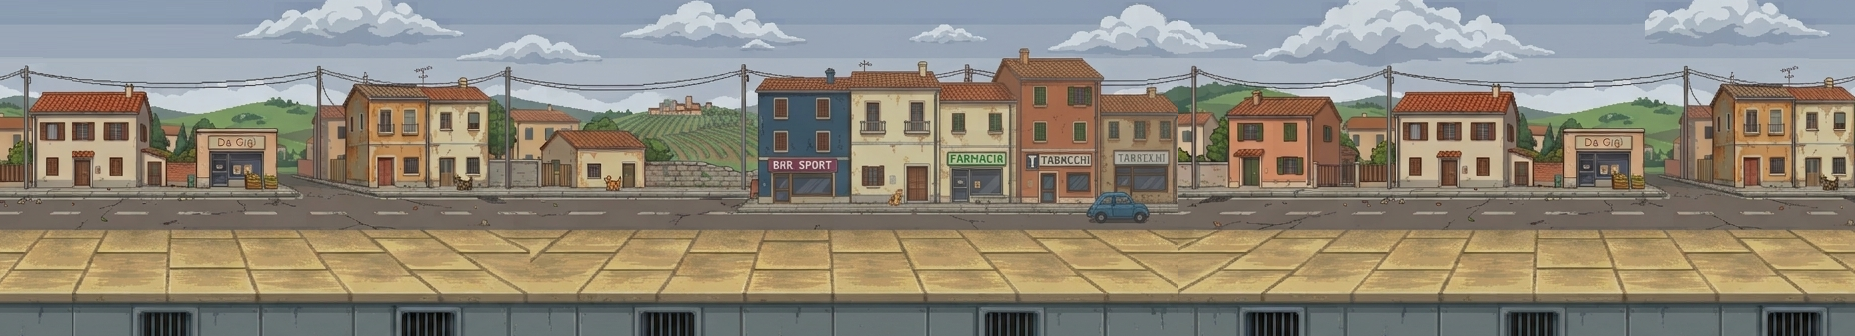
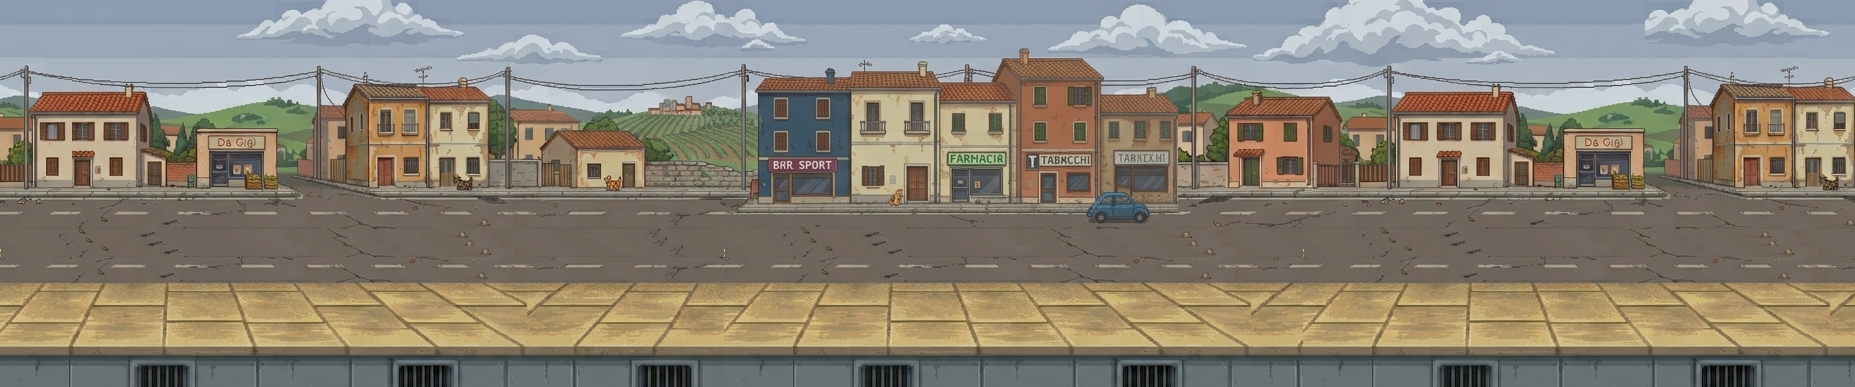
Retune damage and FURY rates, fit level 1 to the new background
Damage
  Punch is now flat 3 across the whole combo rather than escalating 12/16/20
  -- chaining is about pressure and animation flow, not ramping damage.
  Kick 10 -> 6, heavy 14 -> 6 per strike (12 per two-hit swing). SuperGere
  doubles all of it, unchanged.

FURY
  1.5% per hit landed or taken, 2% for a landed heavy, so the big committed
  swing is also the fastest route to transforming: 67 ordinary hits to fill,
  or 50 heavies. The meter is fed once per swing, so a heavy's two strikes
  are worth 2% together rather than 4%.

Level 1 background
  The art grew to 1855x387 with a much deeper road. The walkable band now
  covers road and pavement together (0.450..0.907) rather than the 68px
  pavement strip alone -- confining the fight to the kerb would waste the
  space the art gained. Lane depth ~40px -> 113px.

  The canvas is 387 tall to match, so the strip draws at 1:1 instead of
  being scaled down; at 336 each copy shrank and the world lost 13% of its
  length (19327 vs 22260 px).

diff --git a/web/js/entities.js b/web/js/entities.js
@@ -96,7 +96,11 @@ const PLAYER_SLIDE_DURATION = 28;
 // transforms immediately: the sprite character swaps to the supergere
 // pack for FURY_ACTIVE_FRAMES, then reverts.
 const FURY_MAX = 100;
-const FURY_GAIN_PER_HIT = 1;
+// Meter gained per event, as a percentage of FURY_MAX. Landing or taking a
+// hit is worth the same; a landed heavy is worth slightly more, so the big
+// committed swing is also the fastest route to transforming.
+const FURY_GAIN_PER_HIT = 1.5;
+const FURY_GAIN_PER_HEAVY = 2;
 const FURY_ACTIVE_FRAMES = 20 * 60; // 20 seconds at 60fps
 // Transformed, every attack hits twice as hard. Applied centrally in
 // Player.attackBox so no individual move can miss out on it.
@@ -112,7 +116,10 @@ const PLAYER_HEAVY_DURATION = 30;
 // single 22 so two hits stay in the same weight class rather than
 // doubling the move's output outright.
 const PLAYER_HEAVY_HITS = 2;
-const PLAYER_HEAVY_DAMAGE = 14;
+// Per-attack damage. The punch combo is flat rather than escalating.
+const PLAYER_PUNCH_DAMAGE = 3;
+const PLAYER_KICK_DAMAGE = 6;
+const PLAYER_HEAVY_DAMAGE = 6;
 // Ticks between the two strikes, so they read as a swing and a follow
 // through rather than both landing on one frame.
 const PLAYER_HEAVY_HIT_GAP = 9;
@@ -315,7 +322,9 @@ class Player {
     this.animTimer = 0;
     this.prevAction = this.action;
     this.moveTimer = PLAYER_COMBO_WINDOW;
-    this.comboDamage = 8 + this.comboStep * 4;
+    // Flat across the combo: every punch is worth the same, so chaining is
+    // about pressure and animation flow rather than escalating damage.
+    this.comboDamage = PLAYER_PUNCH_DAMAGE;
     this.attackHit = false;
     this.attackHitCount = 0;
     this.lastHitTick = -999;
@@ -341,7 +350,8 @@ class Player {
   // Called for every hit this player lands or receives. Weight is
   // deliberately ignored — the meter counts hits, not damage — so a jab
   // and a heavy are worth the same 1%.
-  addFury() {
+  // gain defaults to an ordinary hit; a landed heavy passes its own rate.
+  addFury(gain = FURY_GAIN_PER_HIT) {
     // Characters without a transformation don't build a meter at all, so
     // no FURY HUD, no popup and no swap ever happens for them.
     if (!this.canFury()) return;
@@ -349,7 +359,7 @@ class Player {
     // toward the next one, otherwise a long transformation would refill
     // itself and chain indefinitely.
     if (this.furyActive) return;
-    this.fury = clamp(this.fury + FURY_GAIN_PER_HIT, 0, FURY_MAX);
+    this.fury = clamp(this.fury + gain, 0, FURY_MAX);
     if (this.fury >= FURY_MAX) this.startFury();
   }
 
@@ -564,7 +574,7 @@ class Player {
       return this.attackBox(132, 104, -120, 96, this.comboDamage);
     }
     if (this.action === 'slide' && this.moveTimer > 0) {
-      return this.attackBox(118, 96, -54, 54, 10);
+      return this.attackBox(118, 96, -54, 54, PLAYER_KICK_DAMAGE);
     }
     if (this.action === 'heavy' && this.moveTimer > 0) {
       // The heavy is a two-hit move: the swing connects, then follows
@@ -1271,7 +1281,9 @@ function resolvePlayerAttacks(player, enemies) {
     // Kept in sync so anything still reading the old boolean (and the
     // reset in startPunch/startKneeSlide/startHeavy) keeps working.
     player.attackHit = player.attackHitCount >= maxHits;
-    player.addFury();
+    player.addFury(
+      player.action === 'heavy' ? FURY_GAIN_PER_HEAVY : FURY_GAIN_PER_HIT,
+    );
   }
   return hits;
 }

diff --git a/web/js/level.js b/web/js/level.js
@@ -44,12 +44,15 @@ const ENEMY_ACTIVATE_RANGE = 520;
 // The street strip. Repeated LEVEL_LOOPS times to make the world.
 const LEVEL_BACKGROUND = 'assets/release/backgrounds/lv1/lv1-background.png';
 
-// Where the pavement sits inside the background art, as fractions of the
-// image height (see stages.js for the same convention). Measured off
-// lv1-background.png (1855x336): the kerb edge is at y=238 and the front
-// of the pavement at y=300, past which is the grey basement wall.
-const LEVEL_WALK_TOP = 0.708;
-const LEVEL_WALK_BOTTOM = 0.893;
+// The walkable band inside the background art, as fractions of the image
+// height (see stages.js for the same convention).
+//
+// Measured off lv1-background.png (1855x387): the open asphalt starts at
+// y=174 and the pavement runs to its front lip at y=351. Both are stood on
+// -- the art gives a deep road above the kerb, and confining the fight to
+// the 68px pavement strip alone would waste it.
+const LEVEL_WALK_TOP = 0.450;
+const LEVEL_WALK_BOTTOM = 0.907;
 // Keep actors clear of both edges of that band, as the arena stages do.
 const LEVEL_EDGE_MARGIN = 0.18;
 

diff --git a/web/level/index.html b/web/level/index.html
@@ -23,7 +23,9 @@
   WASD/Arrows walk · <strong>Shift</strong> run · Space jump ·
   J punch · K roll · L heavy · <strong>ESC</strong> back
 </p>
-<canvas id="levelCanvas" width="960" height="336"></canvas>
+<!-- Height matches lv1-background.png's aspect at 960 wide, so the strip
+     draws at 1:1 rather than being scaled down. -->
+<canvas id="levelCanvas" width="960" height="387"></canvas>
 
 <script src="js/i18n.js"></script>
 <script src="js/sprites.js"></script>
